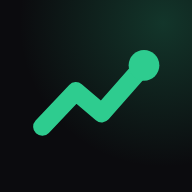
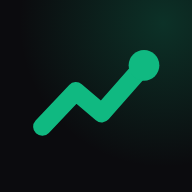
Acento verde esmeralda más oscuro (también íconos)

Changed region(s): [[0.1562, 0.25, 0.8438, 0.7188]]

diff --git a/src/index.css b/src/index.css
@@ -14,10 +14,10 @@
   --fg: #0c0c0e;
   --muted: #62626b;
   --faint: #a1a1a9;
-  --accent: #15a36e;
-  --accent-ink: #0d8a5b;
+  --accent: #059669;
+  --accent-ink: #047857;
   --on-accent: #ffffff;
-  --accent-soft: rgba(21, 163, 110, 0.12);
+  --accent-soft: rgba(5, 150, 105, 0.12);
   --good: #16a34a;
   --bad: #dc2626;
   --warn: #d97706;
@@ -40,10 +40,10 @@
   --fg: #f4f4f5;
   --muted: #a1a1aa;
   --faint: #65656f;
-  --accent: #2ecc8f;
-  --accent-ink: #45d9a0;
-  --on-accent: #04140d;
-  --accent-soft: rgba(46, 204, 143, 0.14);
+  --accent: #059669;
+  --accent-ink: #10b981;
+  --on-accent: #ffffff;
+  --accent-soft: rgba(16, 185, 129, 0.15);
   --good: #4ade80;
   --bad: #f87171;
   --warn: #fbbf24;

diff --git a/src/ui/Logo.tsx b/src/ui/Logo.tsx
@@ -7,12 +7,12 @@ export function LogoMark({ size = 56 }: { size?: number }) {
       <path
         d="M24 64 L40 47 L53 58 L74 35"
         fill="none"
-        stroke="#2ECC8F"
+        stroke="#10B981"
         strokeWidth="9"
         strokeLinecap="round"
         strokeLinejoin="round"
       />
-      <circle cx="74" cy="35" r="7.5" fill="#2ECC8F" />
+      <circle cx="74" cy="35" r="7.5" fill="#10B981" />
     </svg>
   );
 }

diff --git a/CLAUDE.md b/CLAUDE.md
@@ -98,7 +98,7 @@ npm run format       # prettier (+ orden de clases de Tailwind)
 ## Diseño / gotchas de UI
 
 - Mobile-first pensado para PWA en iPhone (pantalla de inicio). `viewport-fit=cover` + paddings con `env(safe-area-inset-*)`; barra de estado `black-translucent` (texto blanco): en tema claro se pinta una franja oscura detrás de la barra de estado para que se lea.
-- Color de acento verde jade/esmeralda (`--accent`, `--accent-ink` en `src/index.css`). Historial a pedido del usuario: empezó lima (#C8F750, no le gustó), pasó a celeste/azul y volvió a verde pero no lima. Los íconos de `public/` usan el mismo color. Tema oscuro por defecto; claro/sistema desde Ajustes (`localStorage` `ft-theme`, aplicado por un script inline en `index.html` antes del primer paint).
+- Color de acento verde jade/esmeralda (`--accent`, `--accent-ink` en `src/index.css`). Historial a pedido del usuario: empezó lima (#C8F750, no le gustó), pasó a celeste/azul y volvió a verde: primero jade (#2ECC8F) y después esmeralda más oscuro (#059669 fondo de botones, #10B981 texto/líneas en oscuro). Los íconos de `public/` usan el mismo color. Tema oscuro por defecto; claro/sistema desde Ajustes (`localStorage` `ft-theme`, aplicado por un script inline en `index.html` antes del primer paint).
 - Recharts no entiende `var(--x)` en props: los colores salen de `useCssColors()` (lee las variables CSS reales según el tema).
 - Inputs con `font-size` ≥ 16px (si no, iOS hace zoom al enfocar). Números decimales con `inputMode="decimal"` en inputs de texto (acepta coma o punto; nunca `type="number"`). Formato de números `es-AR` (coma decimal).
 - **Teclado en iOS dentro de hojas**: `repositionInputs` de Vaul está apagado porque en iOS empujaba la hoja fuera de la pantalla al abrir el teclado (bug real reportado al renombrar una rutina). En su lugar `useKeyboard` en `src/ui/sheet.tsx` mide `visualViewport` y apoya la hoja justo encima del teclado limitando su altura.
